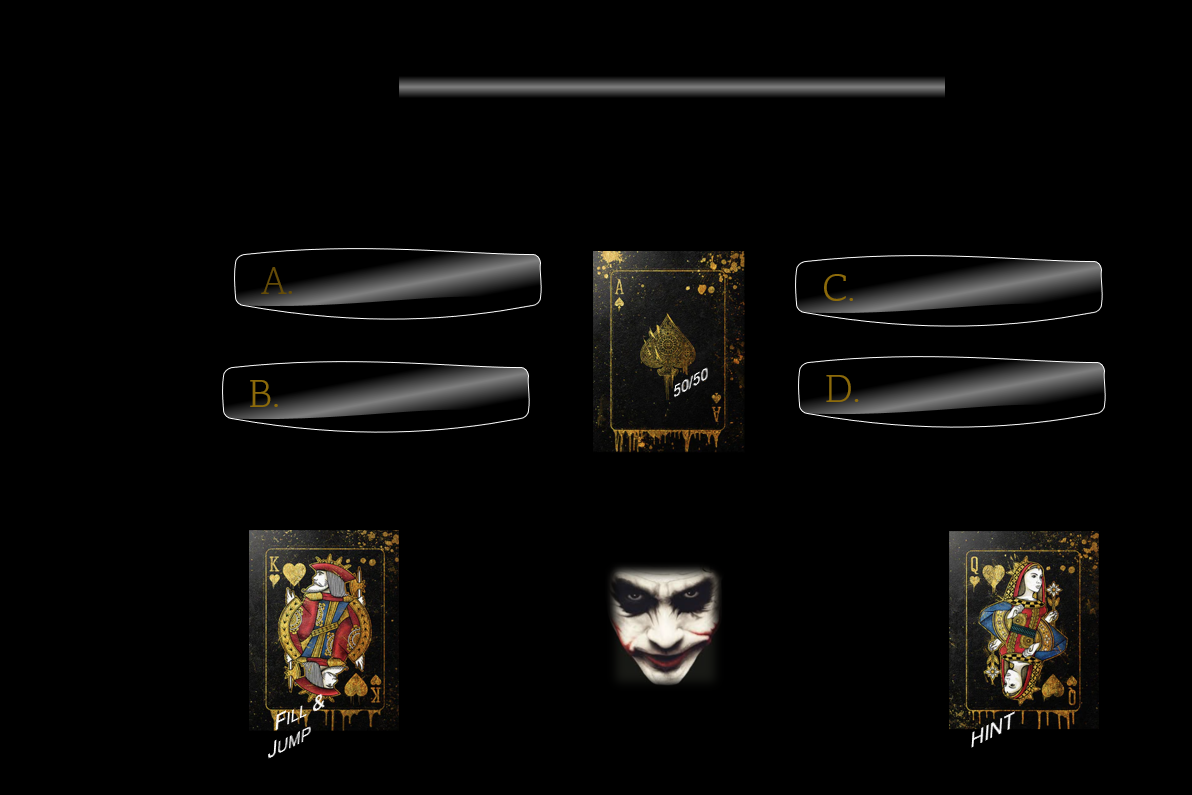
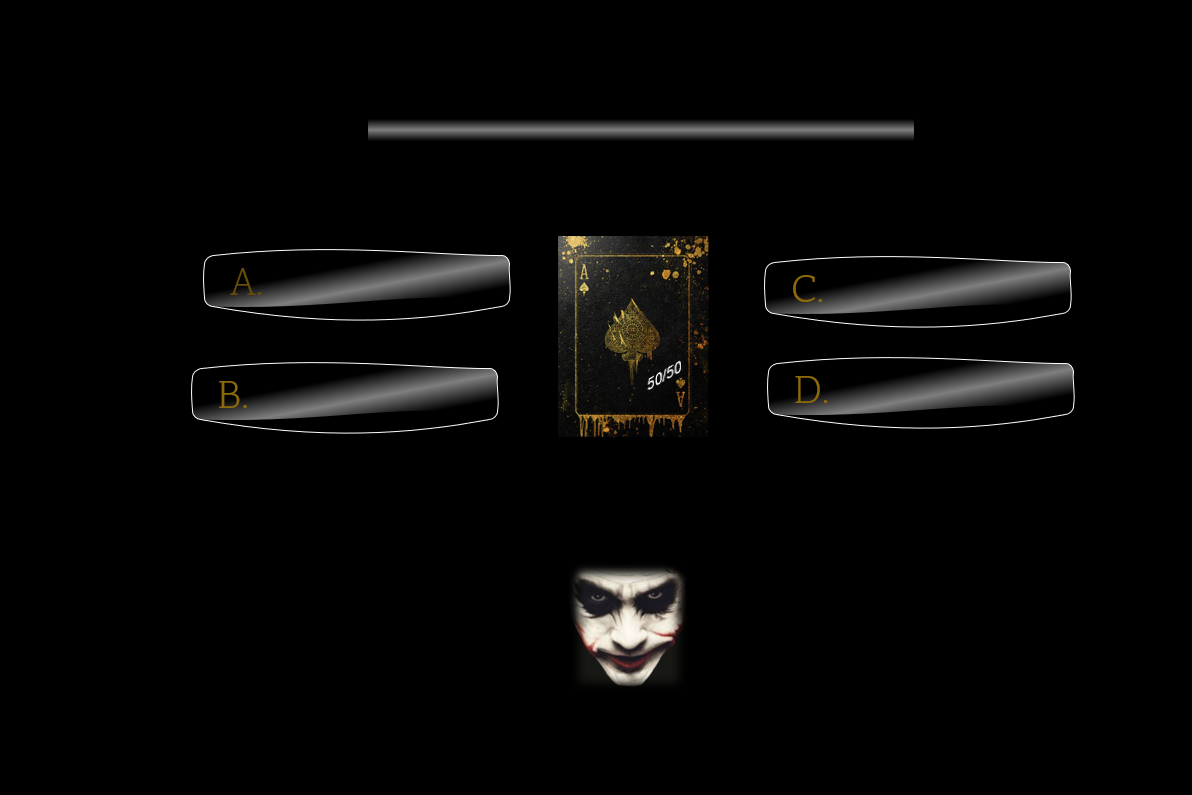
Meine Änderungen

diff --git a/src/main/resources/at/ac/hcw/kqm/ui/fxml/styles.css b/src/main/resources/at/ac/hcw/kqm/ui/fxml/styles.css
@@ -302,6 +302,13 @@
 .joker-card:focused,
 .joker-card:pressed,
 .joker-card:armed,
+
+    /* Selection feedback on JokerFill answer buttons */
+.selected-answer {
+    -fx-border-color: #f1c40f;
+    -fx-border-width: 2;
+    -fx-border-radius: 6;
+}
 .joker-card:default {
     -fx-background-color: transparent;
     -fx-background-insets: 0;

diff --git a/src/main/java/at/ac/hcw/kqm/ui/SceneManager.java b/src/main/java/at/ac/hcw/kqm/ui/SceneManager.java
@@ -46,11 +46,11 @@ public class SceneManager {
     }
 
     public void showTieBreak() {
-        loadAndShow("/at/ac/hcw/kqm/ui/fxml/TieBreak.fxml", 1200, 800, "Tie-Break");
+        loadAndShow("/at/ac/hcw/kqm/ui/fxml/TieBreak.fxml", 900, 700, "Tie-Break");
     }
 
     public void showResult() {
-        loadAndShow("/at/ac/hcw/kqm/ui/fxml/Result.fxml", 1200, 800, "Ergebnisse");
+        loadAndShow("/at/ac/hcw/kqm/ui/fxml/Result.fxml", 900, 600, "Ergebnisse");
     }
 
     public void showKaraoke() {
@@ -60,6 +60,18 @@ public class SceneManager {
 
     public void showJokerRules() {
         loadAndShow("/at/ac/hcw/kqm/ui/fxml/JokerRules.fxml", 1200, 800, "Joker Regeln");
+    }
+
+    public void showJokerFill() {
+        loadAndShow("/at/ac/hcw/kqm/ui/fxml/JokerFill.fxml", 1200, 800, "Fill & Jump Joker");
+    }
+
+    public void showJokerFifty() {
+        loadAndShow("/at/ac/hcw/kqm/ui/fxml/JokerFifty.fxml", 1200, 800, "50/50 Joker");
+    }
+
+    public void showJokerHint() {
+        loadAndShow("/at/ac/hcw/kqm/ui/fxml/JokerHint.fxml", 1200, 800, "Hint Joker");
     }
 
     /**

diff --git a/src/main/java/at/ac/hcw/kqm/model/Player.java b/src/main/java/at/ac/hcw/kqm/model/Player.java
@@ -158,7 +158,7 @@ public class Player {
                 return !fiftyFiftyUsed;
             case HINT:
                 return !hintUsed;
-            case REPLACE_QUESTION:
+            case FIILL_AND_JUMP:
                 return !replaceQuestionUsed;
             default:
                 return false;
@@ -176,7 +176,7 @@ public class Player {
             case HINT:
                 hintUsed = true;
                 break;
-            case REPLACE_QUESTION:
+            case FIILL_AND_JUMP:
                 replaceQuestionUsed = true;
                 break;
         }

diff --git a/src/main/java/at/ac/hcw/kqm/model/Game.java b/src/main/java/at/ac/hcw/kqm/model/Game.java
@@ -107,12 +107,4 @@ public class Game {
     public int getTieBreakQuestionIndex() {
         return tieBreakQuestionIndex;
     }
-
-    public int getQuestionIndex() {
-        return currentQuestionIndex;
-    }
-
-    public List<Question> getQuestions() {
-        return questions;
-    }
 }
